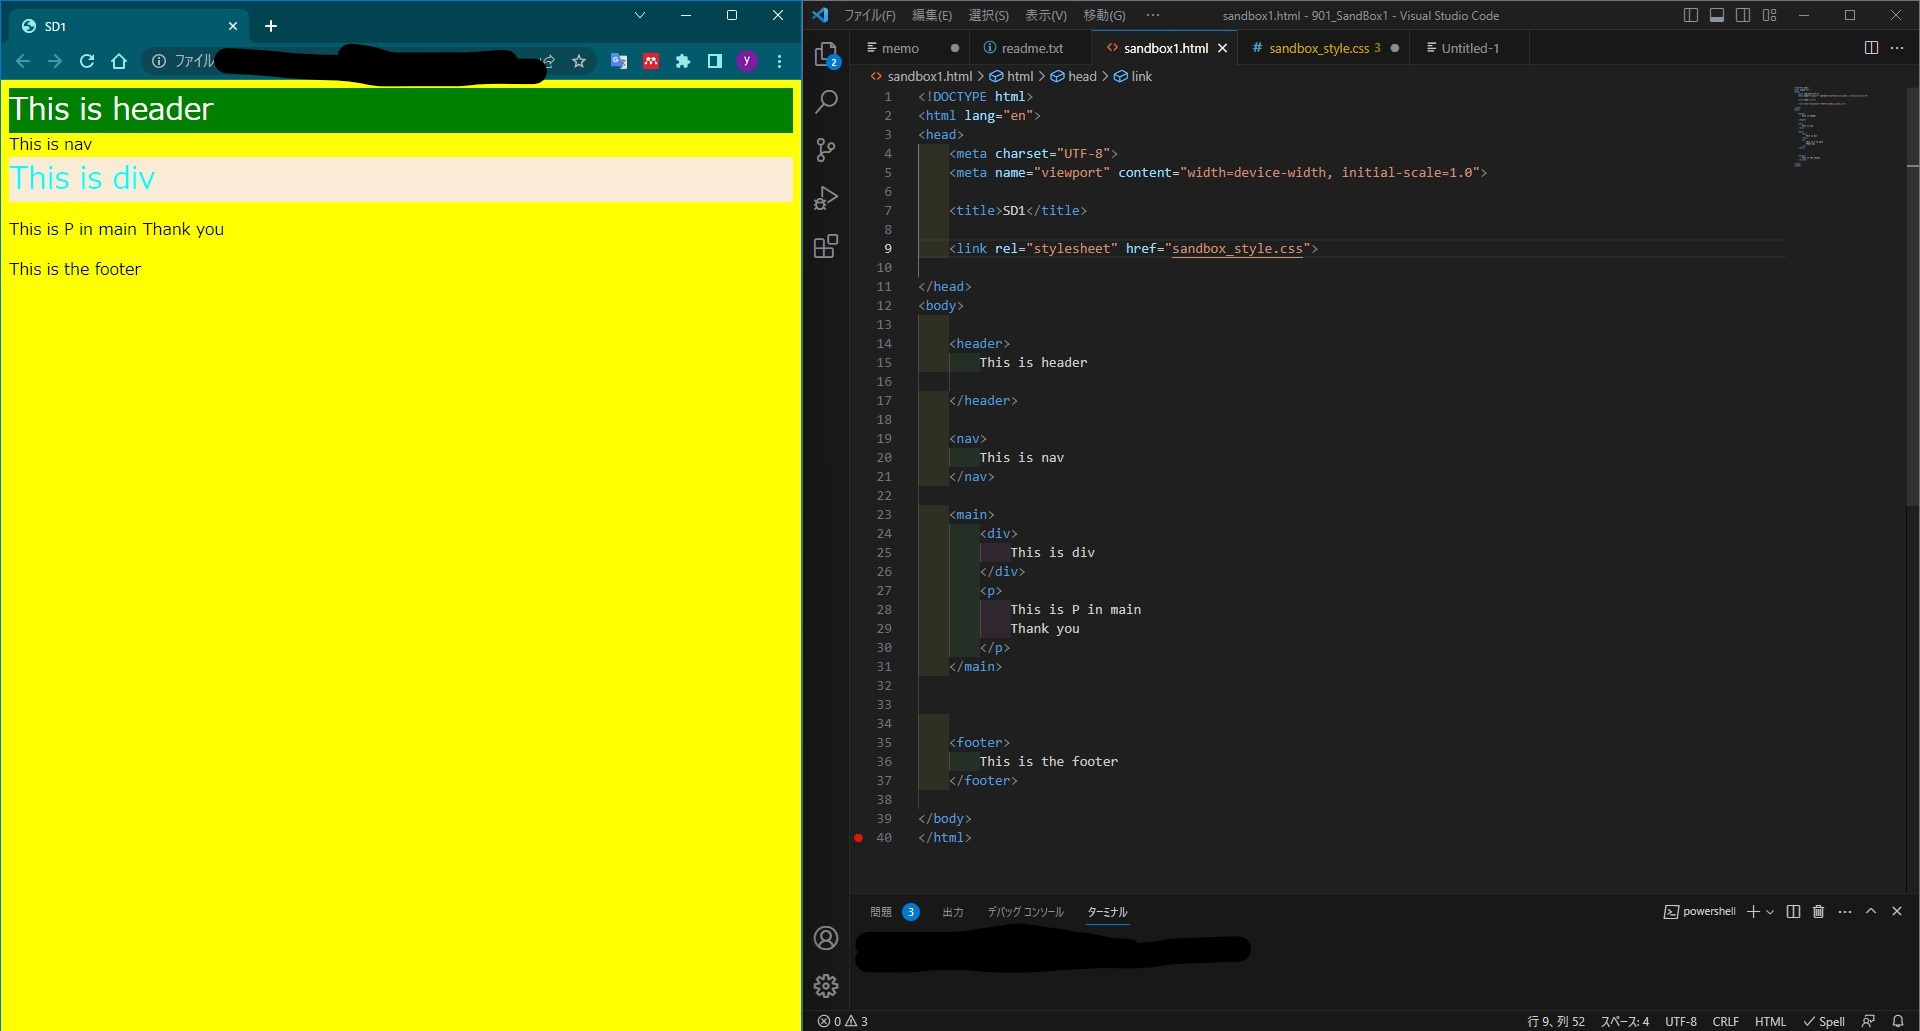
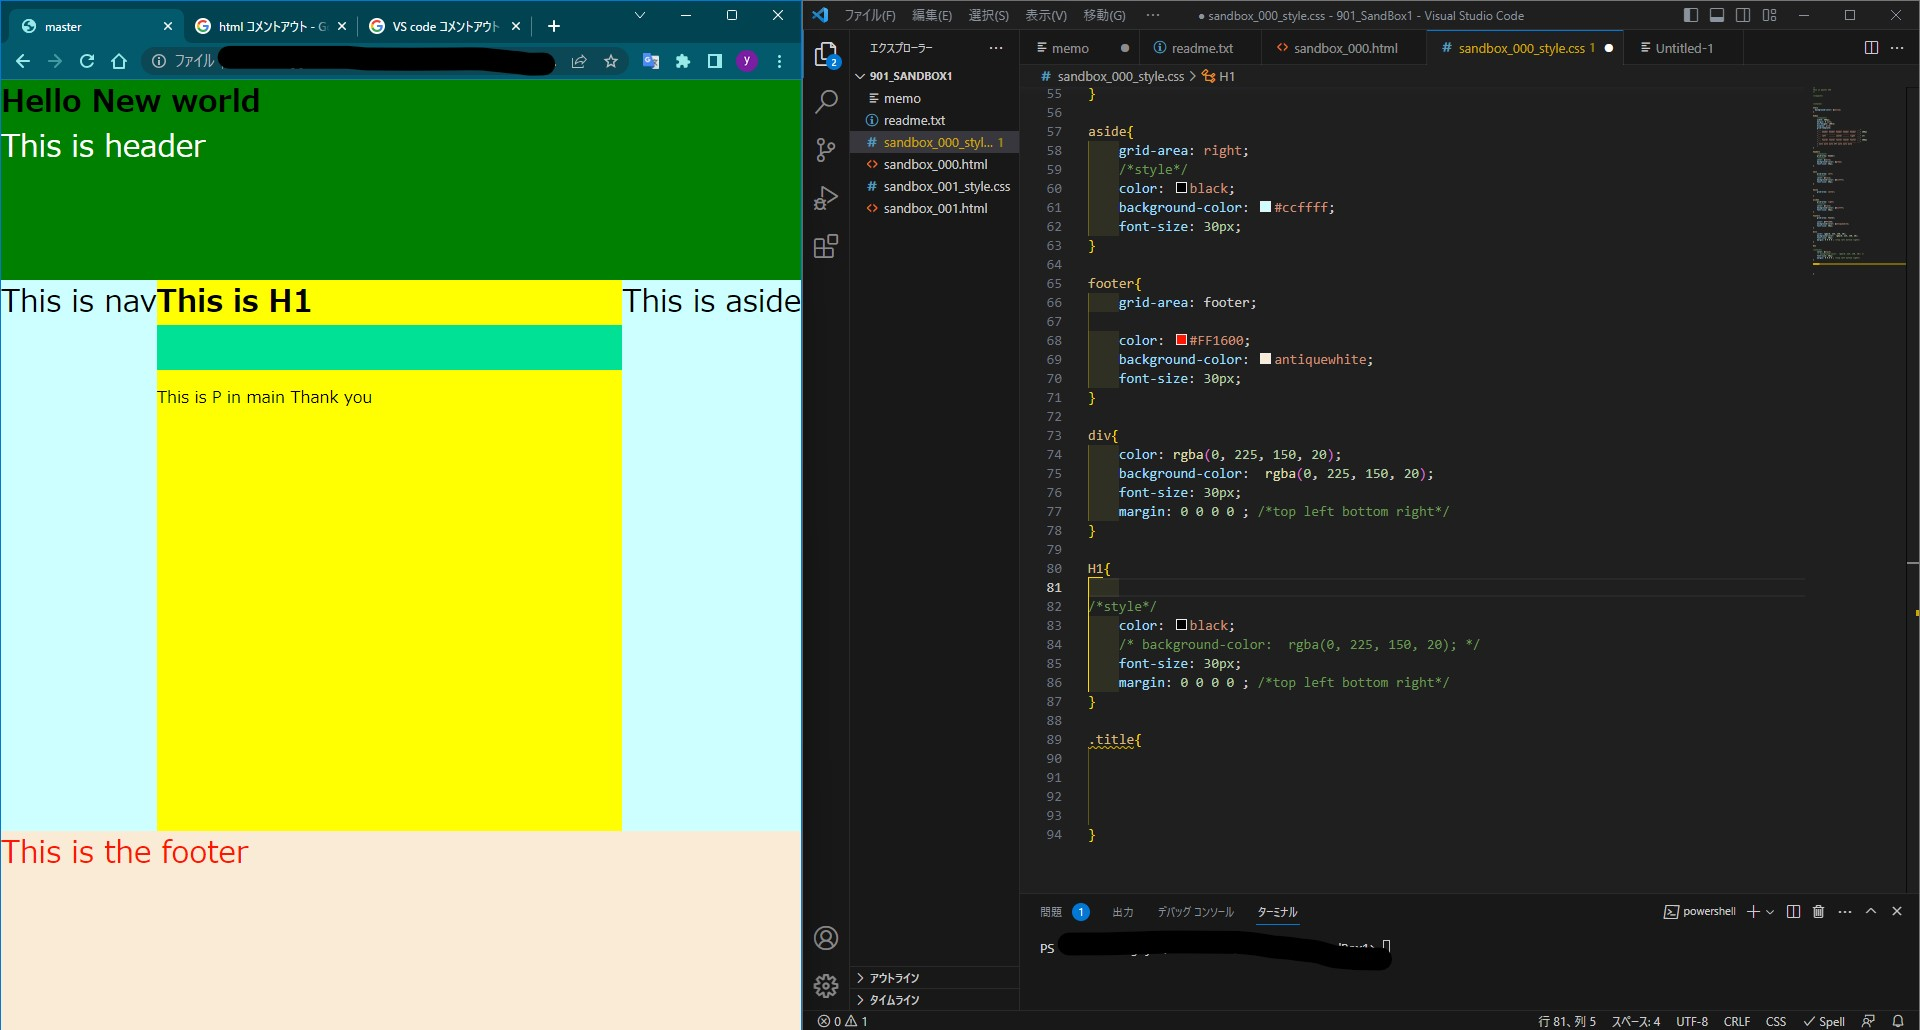
Day2
グリッドを使用した聖杯レイアウトを実装しました

diff --git a/sandbox_000_style.css b/sandbox_000_style.css
@@ -1,28 +1,92 @@
+/* 
+This is master CSS
+*/
+
+/*layout*/
+
+
+
+/*style*/
+
 html{
   background-color: yellow;
 }
 
-header{
-  color: white;
-  background-color: green;
-  font-size: 30px;
+body{
+    /*layout*/
+    width: 800px;
+    margin: 0 auto;
+    min-height: 100vh;
+    display: grid;
+    grid-template:
+    "... ...... ...... ...... ...... ...... ..."
+    "... header header header header header ..." 200px
+    "... ...... ...... ...... ...... ...... ..."
+    "... left   ...... center ...... right  ..." 1fr
+    "... ...... ...... ...... ...... ...... ..."
+    "... footer footer footer footer footer ..." 200px
+    "... ...... ...... ...... ...... ...... ..."
+    / auto auto auto 1fr auto auto auto  
+    ;
 }
+
+header{
+    /*layout*/
+    grid-area: header;
+    /*style*/
+    color: white;
+    background-color: green;
+    font-size: 30px;
+}
+
 
 nav{
-
-  
+    grid-area: left;
+    /*style*/
+    color: black;
+    background-color: #ccffff;
+    font-size: 30px;
 }
 
-main{
 
+main{
+    grid-area: center;
+
+}
+
+aside{
+    grid-area: right;
+    /*style*/
+    color: black;
+    background-color: #ccffff;
+    font-size: 30px;
 }
 
 footer{
-  
+    grid-area: footer;
+
+    color: #FF1600;
+    background-color: antiquewhite;
+    font-size: 30px;
 }
 
 div{
-  color: #FF1600;
-  background-color: antiquewhite;
-  font-size: 30px;
+    color: rgba(0, 225, 150, 20);
+    background-color:  rgba(0, 225, 150, 20);
+    font-size: 30px;
+    margin: 0 0 0 0 ; /*top left bottom right*/
+}
+
+H1{
+    color: black;
+    /* background-color:  rgba(0, 225, 150, 20); */
+    font-size: 30px;
+    margin: 0 0 0 0 ; /*top left bottom right*/
+}
+
+.title{
+
+
+
+
 }

diff --git a/sandbox_000.html b/sandbox_000.html
@@ -4,24 +4,33 @@
     <meta charset="UTF-8">
     <meta name="viewport" content="width=device-width, initial-scale=1.0">
     
-    <title>SD1</title>
+    <title>master</title>
     
-    <link rel="stylesheet" href="sandbox_style.css">
+    <link rel="stylesheet" href="sandbox_000_style.css">
 
 </head>
+
+<!--main contents-->  
+
 <body>
     
+<!-- header -->
     <header>
+        <H1>Hello New world</H1>
         This is header 
 
     </header>
     
+<!-- side bar -->
     <nav>
         This is nav
     </nav>
-
+<!-- main -->
     <main>
-        <div>
+        <H1>
+            This is H1
+        </H1>
+        <div class="title">
             This is div
         </div>
         <p>
@@ -30,6 +39,9 @@
         </p> 
     </main>
 
+    <aside>
+        This is aside
+    </aside>
 
     
     <footer>
